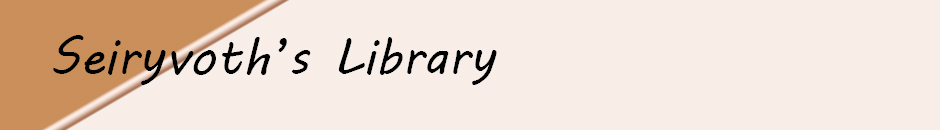
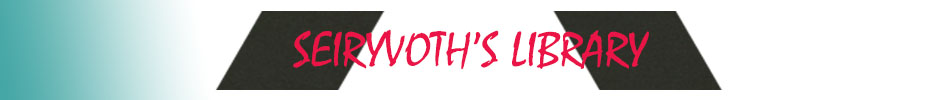
My library

diff --git a/mylibrary.css b/mylibrary.css
@@ -18,7 +18,7 @@ body {
 
 .wrapper {
     width: 940px;
-    margin: 170px auto ;
+    margin: 140px auto ;
     border: 1px dashed #0088dd;
     border-radius: 10px 10px 10px 10px;
     background-color: #ffffff;
@@ -28,9 +28,8 @@ header {
     position: fixed;
     z-index: 50;
     top: 0px;
-    border-radius: 10px 10px 10px 10px;
-    height: 160px;
-    background-image: url(image/Siteheader.jpg);}
+    
+    }
 a {
     text-decoration: none;}
 h1, h2, h3 ,a{
@@ -65,10 +64,12 @@ nav li a {
 nav {
     clear: both;
     border: 1px dashed #0088dd;
-    border-radius: 10px 10px 10px 10px;
-    padding: 0px;	
+    border-radius: 10px 10px 0px 0px;
+    padding: 0px;
+    width: 940px;
+    height: 100px;	
     background-color: #ffffff;
-    height: 30px;}
+    background-image: url(image/Siteheader.jpg);}
 footer {
     clear: both;
     color: #ffffff;
@@ -80,7 +81,12 @@ footer {
     border: 1px dashed #0088dd;
     border-radius: 10px 10px 10px 10px;}
 nav ul {
-    margin: 0px;
+    width: auto;
+    height: 20px;
+    margin-top: 100px;
+    background-color: rgb(38, 58, 77);
+    border: 1px dashed #0088dd;
+    border-radius: 0px 0px 10px 10px;
     padding: 5px 0px 5px 30px;}
 nav li {
     display: inline;

diff --git a/index.html b/index.html
@@ -17,7 +17,7 @@
 	<body>
 		<div class="wrapper">
 			<header>
-				<h1>Seiryvoth's Library</h1>
+				
 				<nav>
 					<ul>
 						<li><a href="" class="current">ទំព័រដើម</a></li>

diff --git a/ContinueF.html b/ContinueF.html
@@ -17,7 +17,7 @@
 	<body>
 		<div class="wrapper">
 			<header>
-				<h1>Seiryvoth's Library</h1>
+				
 				<nav>
 					<ul>
 						<li><a href="index.html">ទំព័រដើម</a></li>

diff --git a/Ederivative.html b/Ederivative.html
@@ -17,7 +17,7 @@
 	<body>
 		<div class="wrapper">
 			<header>
-				<h1>Seiryvoth's Library</h1>
+				
 				<nav>
 					<ul>
 						<li><a href="index.html">ទំព័រដើម</a></li>

diff --git a/Elimit.html b/Elimit.html
@@ -17,7 +17,7 @@
 	<body>
 		<div class="wrapper">
 			<header>
-				<h1>Seiryvoth's Library</h1>
+				
 				<nav>
 					<ul>
 						<li><a href="index.html">ទំព័រដើម</a></li>

diff --git a/Lderivative.html b/Lderivative.html
@@ -17,7 +17,7 @@
 	<body>
 		<div class="wrapper">
 			<header>
-				<h1>Seiryvoth's Library</h1>
+				
 				<nav>
 					<ul>
 						<li><a href="index.html">ទំព័រដើម</a></li>

diff --git a/Llimit.html b/Llimit.html
@@ -17,7 +17,7 @@
 	<body>
 		<div class="wrapper">
 			<header>
-				<h1>Seiryvoth's Library</h1>
+				
 				<nav>
 					<ul>
 						<li><a href="index.html">ទំព័រដើម</a></li>

diff --git a/classes.html b/classes.html
@@ -17,7 +17,7 @@
 	<body>
 		<div class="wrapper">
 			<header>
-				<h1>Seiryvoth's Library</h1>
+				
 				<nav>
 					<ul>
 						<li><a href="index.html">ទំព័រដើម</a></li>

diff --git a/exercisespart.html b/exercisespart.html
@@ -17,7 +17,7 @@
 	<body>
 		<div class="wrapper">
 			<header>
-				<h1>Seiryvoth's Library</h1>
+				
 				<nav>
 					<ul>
 						<li><a href="index.html">ទំព័រដើម</a></li>

diff --git a/g12exercises.html b/g12exercises.html
@@ -17,7 +17,7 @@
 	<body>
 		<div class="wrapper">
 			<header>
-				<h1>Seiryvoth's Library</h1>
+				
 				<nav>
 					<ul>
 						<li><a href="index.html">ទំព័រដើម</a></li>

diff --git a/g12lessons.html b/g12lessons.html
@@ -17,7 +17,7 @@
 	<body>
 		<div class="wrapper">
 			<header>
-				<h1>Seiryvoth's Library</h1>
+				
 				<nav>
 					<ul>
 						<li><a href="index.html">ទំព័រដើម</a></li>
